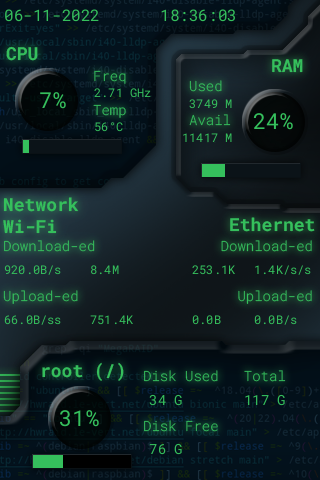
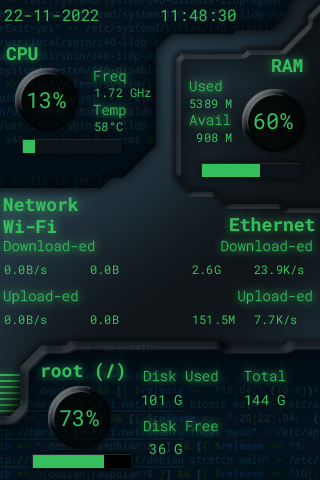
Fix remaining chars problem on network metrics

diff --git a/library/stats.py b/library/stats.py
@@ -612,7 +612,7 @@ class Net:
 
         if THEME_DATA['STATS']['NET']['WLO']['UPLOAD']['TEXT'].get("SHOW", False):
             display.lcd.DisplayText(
-                text=f"{upload_wlo_text}",
+                text=f"{upload_wlo_text:<8}",
                 x=THEME_DATA['STATS']['NET']['WLO']['UPLOAD']['TEXT'].get("X", 0),
                 y=THEME_DATA['STATS']['NET']['WLO']['UPLOAD']['TEXT'].get("Y", 0),
                 font=THEME_DATA['STATS']['NET']['WLO']['UPLOAD']['TEXT'].get("FONT", "roboto-mono/RobotoMono-Regular.ttf"),
@@ -626,7 +626,7 @@ class Net:
 
         if THEME_DATA['STATS']['NET']['WLO']['UPLOADED']['TEXT'].get("SHOW", False):
             display.lcd.DisplayText(
-                text=f"{uploaded_wlo_text}",
+                text=f"{uploaded_wlo_text:<6}",
                 x=THEME_DATA['STATS']['NET']['WLO']['UPLOADED']['TEXT'].get("X", 0),
                 y=THEME_DATA['STATS']['NET']['WLO']['UPLOADED']['TEXT'].get("Y", 0),
                 font=THEME_DATA['STATS']['NET']['WLO']['UPLOADED']['TEXT'].get("FONT", "roboto-mono/RobotoMono-Regular.ttf"),
@@ -640,7 +640,7 @@ class Net:
 
         if THEME_DATA['STATS']['NET']['WLO']['DOWNLOAD']['TEXT'].get("SHOW", False):
             display.lcd.DisplayText(
-                text=f"{download_wlo_text}",
+                text=f"{download_wlo_text:<8}",
                 x=THEME_DATA['STATS']['NET']['WLO']['DOWNLOAD']['TEXT'].get("X", 0),
                 y=THEME_DATA['STATS']['NET']['WLO']['DOWNLOAD']['TEXT'].get("Y", 0),
                 font=THEME_DATA['STATS']['NET']['WLO']['DOWNLOAD']['TEXT'].get("FONT", "roboto-mono/RobotoMono-Regular.ttf"),
@@ -654,7 +654,7 @@ class Net:
 
         if THEME_DATA['STATS']['NET']['WLO']['DOWNLOADED']['TEXT'].get("SHOW", False):
             display.lcd.DisplayText(
-                text=f"{downloaded_wlo_text}",
+                text=f"{downloaded_wlo_text:<6}",
                 x=THEME_DATA['STATS']['NET']['WLO']['DOWNLOADED']['TEXT'].get("X", 0),
                 y=THEME_DATA['STATS']['NET']['WLO']['DOWNLOADED']['TEXT'].get("Y", 0),
                 font=THEME_DATA['STATS']['NET']['WLO']['DOWNLOADED']['TEXT'].get("FONT", "roboto-mono/RobotoMono-Regular.ttf"),
@@ -668,7 +668,7 @@ class Net:
 
         if THEME_DATA['STATS']['NET']['ETH']['UPLOAD']['TEXT'].get("SHOW", False):
             display.lcd.DisplayText(
-                text=f"{upload_eth_text}",
+                text=f"{upload_eth_text:<8}",
                 x=THEME_DATA['STATS']['NET']['ETH']['UPLOAD']['TEXT'].get("X", 0),
                 y=THEME_DATA['STATS']['NET']['ETH']['UPLOAD']['TEXT'].get("Y", 0),
                 font=THEME_DATA['STATS']['NET']['ETH']['UPLOAD']['TEXT'].get("FONT", "roboto-mono/RobotoMono-Regular.ttf"),
@@ -682,7 +682,7 @@ class Net:
 
         if THEME_DATA['STATS']['NET']['ETH']['UPLOADED']['TEXT'].get("SHOW", False):
             display.lcd.DisplayText(
-                text=f"{uploaded_eth_text}",
+                text=f"{uploaded_eth_text:<6}",
                 x=THEME_DATA['STATS']['NET']['ETH']['UPLOADED']['TEXT'].get("X", 0),
                 y=THEME_DATA['STATS']['NET']['ETH']['UPLOADED']['TEXT'].get("Y", 0),
                 font=THEME_DATA['STATS']['NET']['ETH']['UPLOADED']['TEXT'].get("FONT", "roboto-mono/RobotoMono-Regular.ttf"),
@@ -696,7 +696,7 @@ class Net:
 
         if THEME_DATA['STATS']['NET']['ETH']['DOWNLOAD']['TEXT'].get("SHOW", False):
             display.lcd.DisplayText(
-                text=f"{download_eth_text}",
+                text=f"{download_eth_text:<8}",
                 x=THEME_DATA['STATS']['NET']['ETH']['DOWNLOAD']['TEXT'].get("X", 0),
                 y=THEME_DATA['STATS']['NET']['ETH']['DOWNLOAD']['TEXT'].get("Y", 0),
                 font=THEME_DATA['STATS']['NET']['ETH']['DOWNLOAD']['TEXT'].get("FONT", "roboto-mono/RobotoMono-Regular.ttf"),
@@ -710,7 +710,7 @@ class Net:
 
         if THEME_DATA['STATS']['NET']['ETH']['DOWNLOADED']['TEXT'].get("SHOW", False):
             display.lcd.DisplayText(
-                text=f"{downloaded_eth_text}",
+                text=f"{downloaded_eth_text:<6}",
                 x=THEME_DATA['STATS']['NET']['ETH']['DOWNLOADED']['TEXT'].get("X", 0),
                 y=THEME_DATA['STATS']['NET']['ETH']['DOWNLOADED']['TEXT'].get("Y", 0),
                 font=THEME_DATA['STATS']['NET']['ETH']['DOWNLOADED']['TEXT'].get("FONT", "roboto-mono/RobotoMono-Regular.ttf"),
